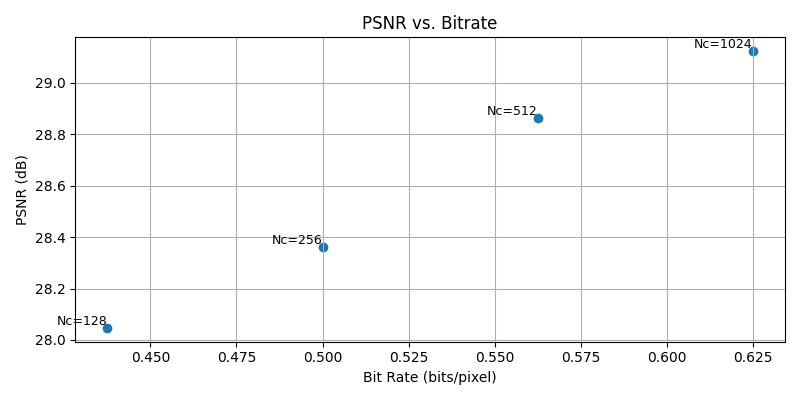
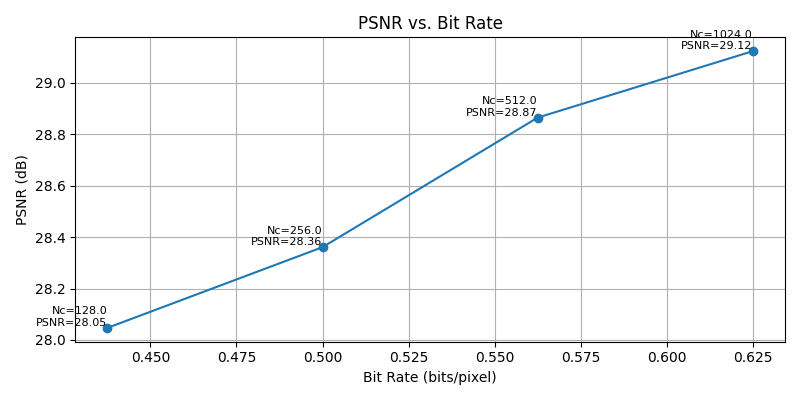
1. 新增編碼/解碼時間量測與 RD 曲線匯出功能
- 在 process_single_nc 中加入 encode/decode 計時，並將 Time_encode、Time_decode 寫入 CSV
- 更新 ensure_dirs，確保所有結果資料夾（codebooks、reconstructions、results）存在
- 新增 export_rd_curve 函式，計算並匯出 RD 曲線資料（rd_curve.csv）
- 在主程式尾端呼叫 export_rd_curve，並將 RD 曲線圖輸出至 rd_curve.png
- 調整 plot_results，改為折線圖並標註各點 PSNR 與 Nc
- 新增全域常數 RD_CSV_PATH 與 RD_PLOT_PATH

diff --git a/src/main.py b/src/main.py
@@ -20,12 +20,14 @@ PCA_DIM = 8               # PCA 降維後向量維度
 TRAIN_PATHS = ['./Img/Train/1.png', './Img/Train/3.png']
 TEST_PATHS  = ['./Img/Test/2.png', './Img/Test/4.png']
 
-# 輸出資料夾
-CODEBOOK_DIR = 'results/codebooks'
-RECON_DIR    = 'results/reconstructions'
-CSV_PATH     = 'results/metrics.csv'
-PLOT1_PATH   = 'results/PSNR_vs_bitrate.png'
-PLOT2_PATH   = 'results/Time_vs_Nc.png'
+# 輸出資料夾與檔案
+CODEBOOK_DIR    = 'results/codebooks'
+RECON_DIR       = 'results/reconstructions'
+CSV_PATH        = 'results/metrics.csv'
+PLOT1_PATH      = 'results/PSNR_vs_bitrate.png'
+PLOT2_PATH      = 'results/Time_vs_Nc.png'
+RD_CSV_PATH     = 'results/rd_curve.csv'
+RD_PLOT_PATH    = 'results/rd_curve.png'
 
 # -----------------------------
 # 功能函式定義
@@ -35,6 +37,7 @@ def ensure_dirs():
     """建立所需的結果資料夾"""
     os.makedirs(CODEBOOK_DIR, exist_ok=True)
     os.makedirs(RECON_DIR, exist_ok=True)
+    os.makedirs(os.path.dirname(CSV_PATH), exist_ok=True)
 
 
 def load_training_vectors(paths, block_size):
@@ -49,32 +52,39 @@ def load_training_vectors(paths, block_size):
 def process_single_nc(vectors, nc, test_paths, block_size, pca_dim):
     """
     使用 Splitting+PCA+Faiss 訓練 codebook，
-    並對測試影像編碼、解碼，測量訓練時間
+    並對測試影像編碼、解碼，測量訓練時間、壓縮時間、解碼時間
     回傳 metrics list。
     """
-    # 建立 LBG 物件
-    lbg = LBG(Nc=nc, epsilon=1e-4, max_iter=50, pca_dim=pca_dim)
-
-    # 量測 codebook 訓練時間
+    # 訓練時間
     tic_train = time.time()
+    lbg = LBG(Nc=nc, epsilon=1e-4, max_iter=50, pca_dim=pca_dim)
     codebook = lbg.fit(vectors)
     time_train = time.time() - tic_train
-
-    # 存 codebook
     np.save(f'{CODEBOOK_DIR}/codebook_{nc}.npy', codebook)
 
     results = []
     for tp in test_paths:
-        img   = load_image(tp)
-        idxs  = encode_image(img, codebook, block_size)
-        recon = decode_indices(idxs, codebook, img.shape, block_size)
+        img = load_image(tp)
+        orig = os.path.basename(tp)
 
-        name = os.path.basename(tp).replace('.png', f'_Nc{nc}.png')
+        # 壓縮 (encode) 時間
+        tic_enc = time.time()
+        idxs = encode_image(img, codebook, block_size)
+        time_encode = time.time() - tic_enc
+
+        # 解碼 (decode) 時間
+        tic_dec = time.time()
+        recon = decode_indices(idxs, codebook, img.shape, block_size)
+        time_decode = time.time() - tic_dec
+
+        # 儲存重建影像
+        name = orig.replace('.png', f'_Nc{nc}.png')
         Image.fromarray(recon).save(f'{RECON_DIR}/{name}')
 
+        # 計算指標
         m = mse(img, recon)
         p = psnr(img, recon)
-        results.append((name, nc, m, p, time_train))
+        results.append((orig, nc, m, p, time_train, time_encode, time_decode))
 
     return results
 
@@ -89,58 +99,70 @@ def run_experiments():
         all_metrics.extend(metrics)
 
     df = pd.DataFrame(all_metrics,
-        columns=['file','Nc','MSE','PSNR','Time_train'])
+        columns=['file','Nc','MSE','PSNR','Time_train','Time_encode','Time_decode'])
     df.to_csv(CSV_PATH, index=False)
     return df
 
 
 def plot_results(df):
-    """根據結果 DataFrame 繪製並儲存圖表"""
+    """繪製 PSNR vs. Bit Rate 與 Training/Encode/Decode 時間 vs. Nc 圖表"""
     df['bits_per_index'] = np.ceil(np.log2(df['Nc']))
     df['bitrate_bpp']    = df['bits_per_index'] / BLOCK_AREA
 
-    summary = df.groupby('Nc').agg({
-        'bitrate_bpp': 'mean',
-        'PSNR': 'mean',
-        'Time_train': 'mean'
-    }).reset_index()
-
-    # 純文字輸出
-    print("\n===== PSNR vs. Bitrate =====")
-    print(summary[['Nc','bitrate_bpp','PSNR']].to_string(
-        index=False, header=["Nc","Bitrate(bpp)","PSNR(dB)"]))
-    print("\n===== Training Time vs. Nc =====")
-    print(summary[['Nc','Time_train']].to_string(
-        index=False, header=["Nc","Train(s)"]))
-    print()
-
-    # PSNR vs. Bitrate 圖
+    # PSNR vs. Bit Rate
+    summary = df.groupby('Nc').agg({'bitrate_bpp':'mean','PSNR':'mean'}).reset_index()
     plt.figure(figsize=(8,4))
-    plt.scatter(summary['bitrate_bpp'], summary['PSNR'])
+    plt.plot(summary['bitrate_bpp'], summary['PSNR'], marker='o')
     for _, row in summary.iterrows():
-        plt.text(row['bitrate_bpp'], row['PSNR'], f"Nc={int(row['Nc'])}",
-                 fontsize=9, va='bottom', ha='right')
+        plt.text(row['bitrate_bpp'], row['PSNR'], f"Nc={row['Nc']}\nPSNR={row['PSNR']:.2f}",
+                 fontsize=8, va='bottom', ha='right')
     plt.xlabel('Bit Rate (bits/pixel)')
     plt.ylabel('PSNR (dB)')
-    plt.title('PSNR vs. Bitrate')
+    plt.title('PSNR vs. Bit Rate')
     plt.grid(True)
     plt.tight_layout()
     plt.savefig(PLOT1_PATH)
     plt.show()
 
-    # Training Time vs. Nc 圖
+    # 時間 vs. Nc
+    time_summary = df.groupby('Nc').agg({
+        'Time_train':'mean','Time_encode':'mean','Time_decode':'mean'
+    }).reset_index()
     plt.figure(figsize=(8,4))
-    plt.plot(summary['Nc'], summary['Time_train'], marker='o')
-    for _, row in summary.iterrows():
-        plt.text(row['Nc'], row['Time_train'], f"Nc={int(row['Nc'])}", fontsize=9, va='bottom', ha='right')
+    plt.plot(time_summary['Nc'], time_summary['Time_train'], marker='o', label='Training')
+    for _, row in time_summary.iterrows():
+        plt.text(row['Nc'], row['Time_train'], f"{row['Time_train']:.2f}s", fontsize=7, va='bottom', ha='right')
     plt.xlabel('Codebook Size Nc')
-    plt.ylabel('Training Time (s)')
-    plt.title('LBG Training Time vs. Nc')
+    plt.ylabel('Time (s)')
+    plt.title('Processing Time vs. Codebook Size')
+    plt.legend()
     plt.grid(True)
     plt.tight_layout()
     plt.savefig(PLOT2_PATH)
     plt.show()
 
+
+def export_rd_curve(df):
+    """計算並匯出 RD Curve 並在圖上標示每點數值"""
+    # 保留與 csv 相同
+    df['bpp'] = np.log2(df['Nc']) / BLOCK_AREA
+    df[['file','bpp','PSNR']].to_csv(RD_CSV_PATH, index=False)
+
+    plt.figure(figsize=(8,4))
+    for fname, grp in df.groupby('file'):
+        grp_sorted = grp.sort_values('bpp')
+        plt.plot(grp_sorted['bpp'], grp_sorted['PSNR'], marker='o', label=fname)
+        for _, row in grp_sorted.iterrows():
+            plt.text(row['bpp'], row['PSNR'], f"Nc={row['Nc']}\n{row['PSNR']:.2f}dB", fontsize=7,
+                     va='bottom', ha='left')
+    plt.xlabel('Bit Rate (bits/pixel)')
+    plt.ylabel('PSNR (dB)')
+    plt.title('PSNR vs. Bit Rate for Each Test Image')
+    plt.legend(title='Test Image')
+    plt.grid(True)
+    plt.tight_layout()
+    plt.savefig(RD_PLOT_PATH)
+    plt.show()
 
 # -----------------------------
 # 主程式
@@ -150,3 +172,4 @@ if __name__ == '__main__':
     df = run_experiments()
     print("完成！結果儲存在 results/ 下面。")
     plot_results(df)
+    export_rd_curve(df)
